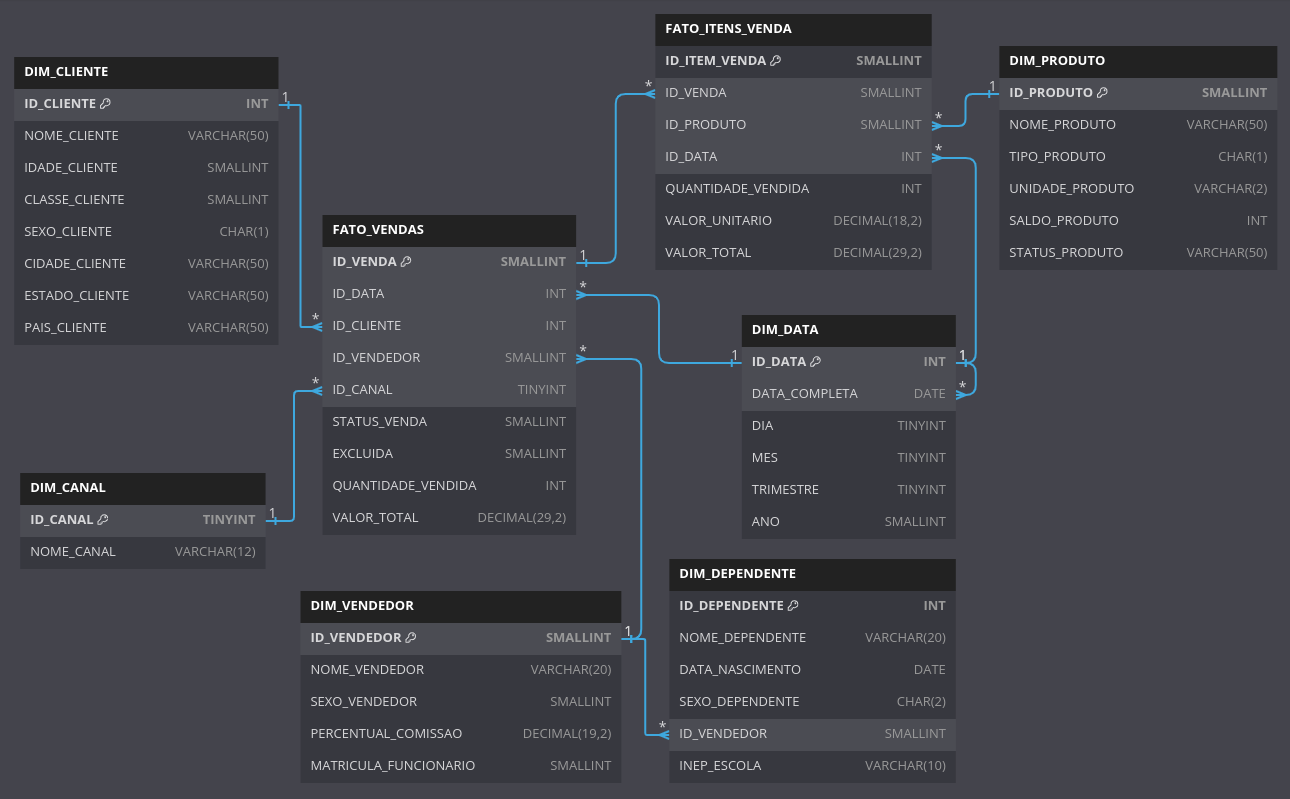
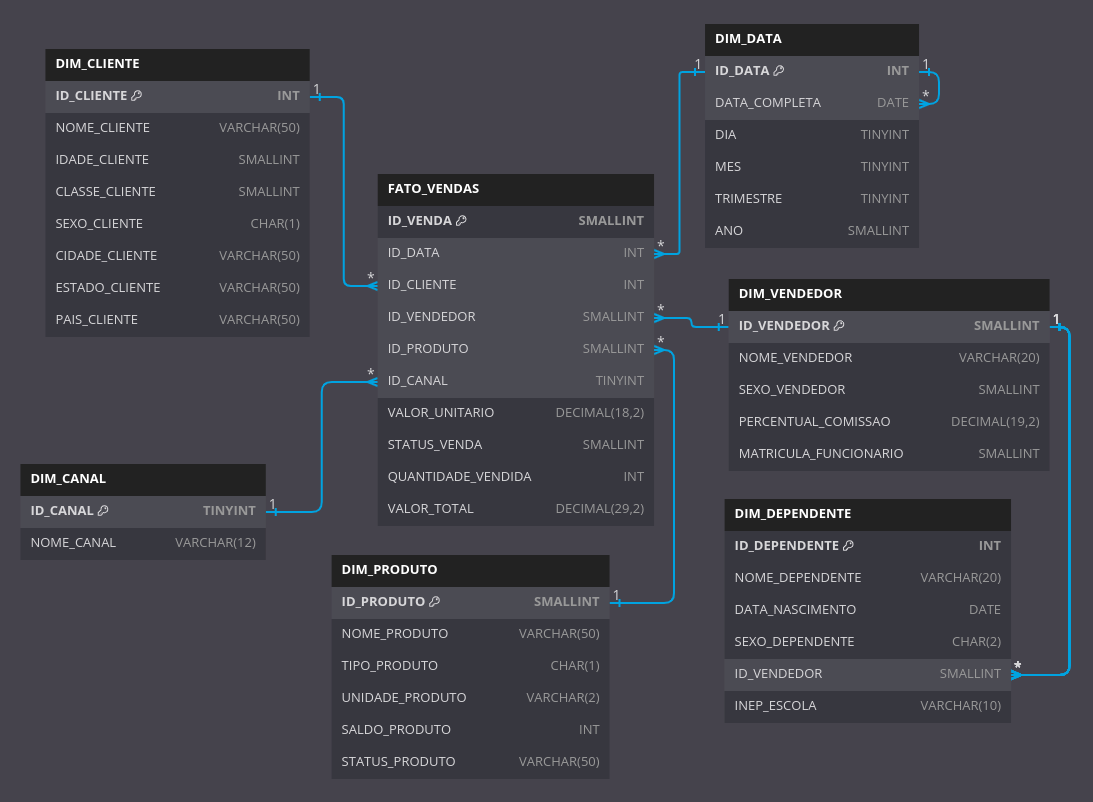
Atualizada atividade de ETL, ODS e Modelo dimensional

diff --git a/etl-ods-dw/README.md b/etl-ods-dw/README.md
@@ -364,25 +364,13 @@ CREATE TABLE FATO_VENDAS (
     ID_DATA INT FOREIGN KEY REFERENCES DIM_DATA(ID_DATA),
     ID_CLIENTE INT FOREIGN KEY REFERENCES DIM_CLIENTE(ID_CLIENTE),
     ID_VENDEDOR SMALLINT FOREIGN KEY REFERENCES DIM_VENDEDOR(ID_VENDEDOR),
-    ID_CANAL TINYINT FOREIGN KEY REFERENCES DIM_CANAL(ID_CANAL),
-    STATUS_VENDA SMALLINT,
-    EXCLUIDA SMALLINT,
-    QUANTIDADE_VENDIDA INT,
-    VALOR_TOTAL DECIMAL(29,2)
-);
-```
-8. Fato de Itens da Venda
-```sql
-CREATE TABLE FATO_ITENS_VENDA (
-    ID_ITEM_VENDA SMALLINT PRIMARY KEY,
-    ID_VENDA SMALLINT FOREIGN KEY REFERENCES FATO_VENDAS(ID_VENDA),
     ID_PRODUTO SMALLINT FOREIGN KEY REFERENCES DIM_PRODUTO(ID_PRODUTO),
-    ID_DATA INT FOREIGN KEY REFERENCES DIM_DATA(ID_DATA),
-    QUANTIDADE_VENDIDA INT,
+    ID_CANAL TINYINT FOREIGN KEY REFERENCES DIM_CANAL(ID_CANAL),
     VALOR_UNITARIO DECIMAL(18,2),
+    STATUS_VENDA SMALLINT,
+    QUANTIDADE_VENDIDA INT,
     VALOR_TOTAL DECIMAL(29,2)
 );
 ```
-
 ### Resultado final
 ![Estrutura DW](images/image5.png)
